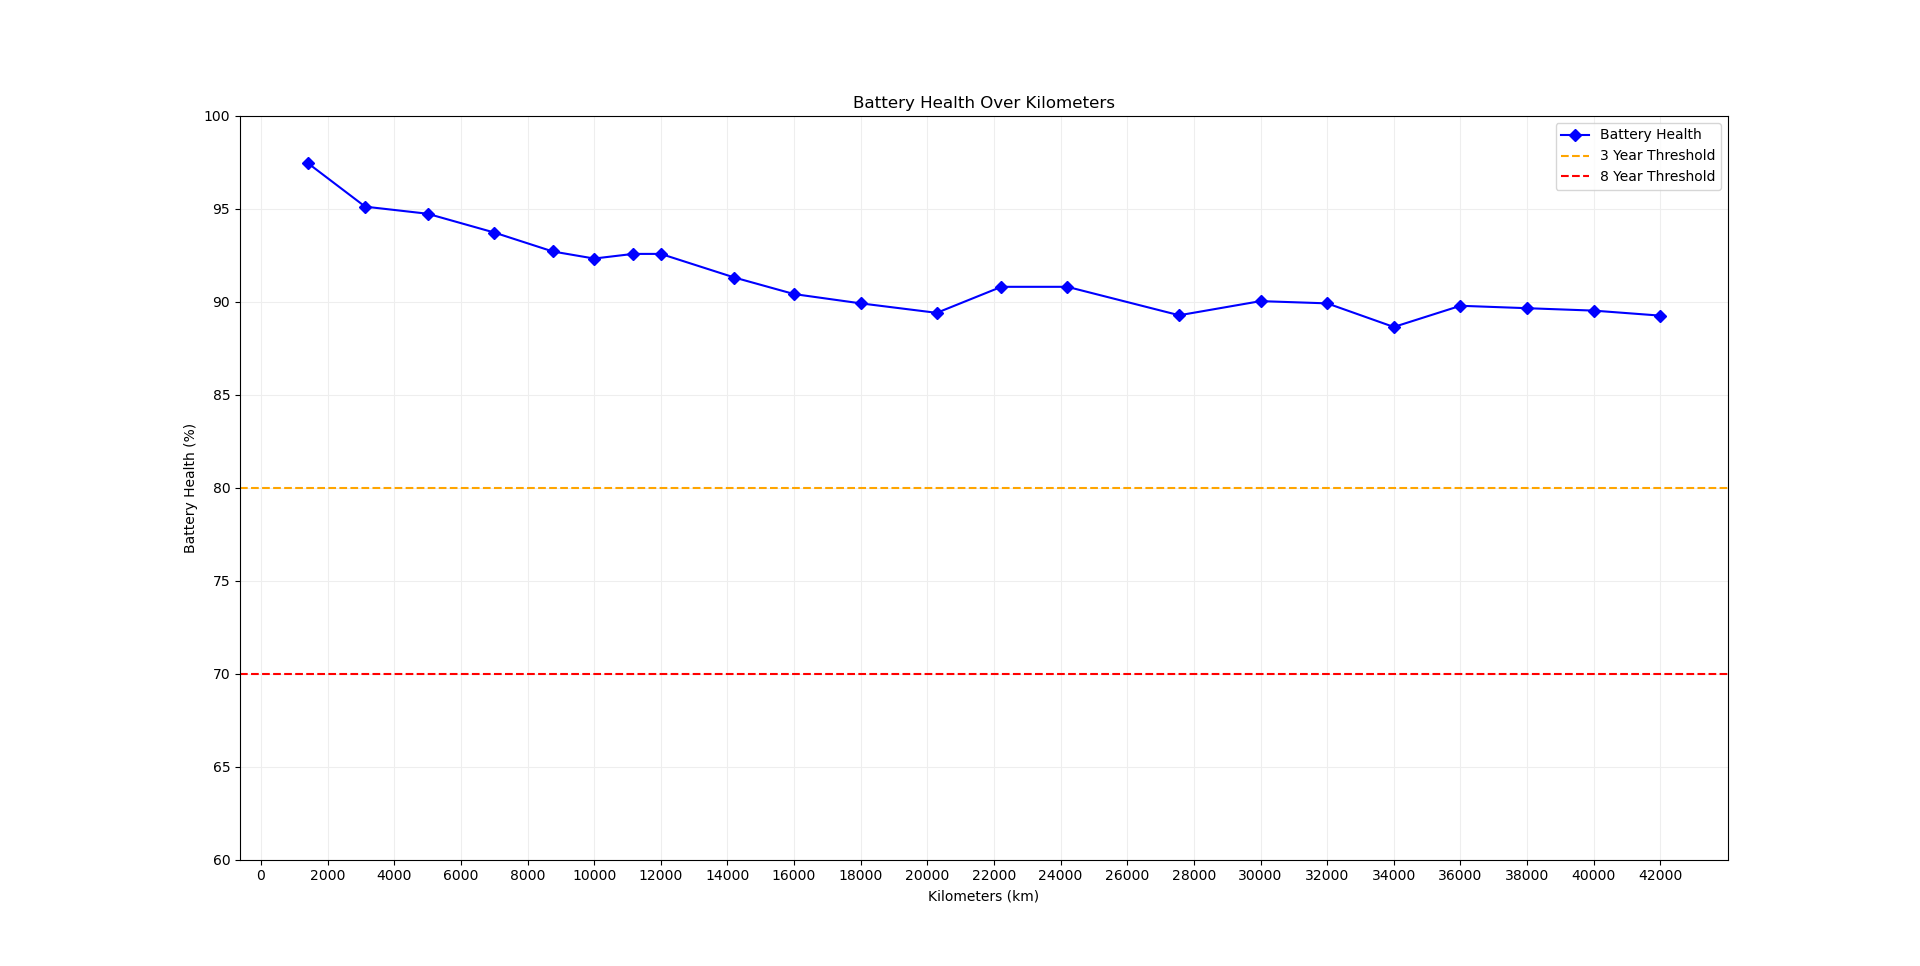
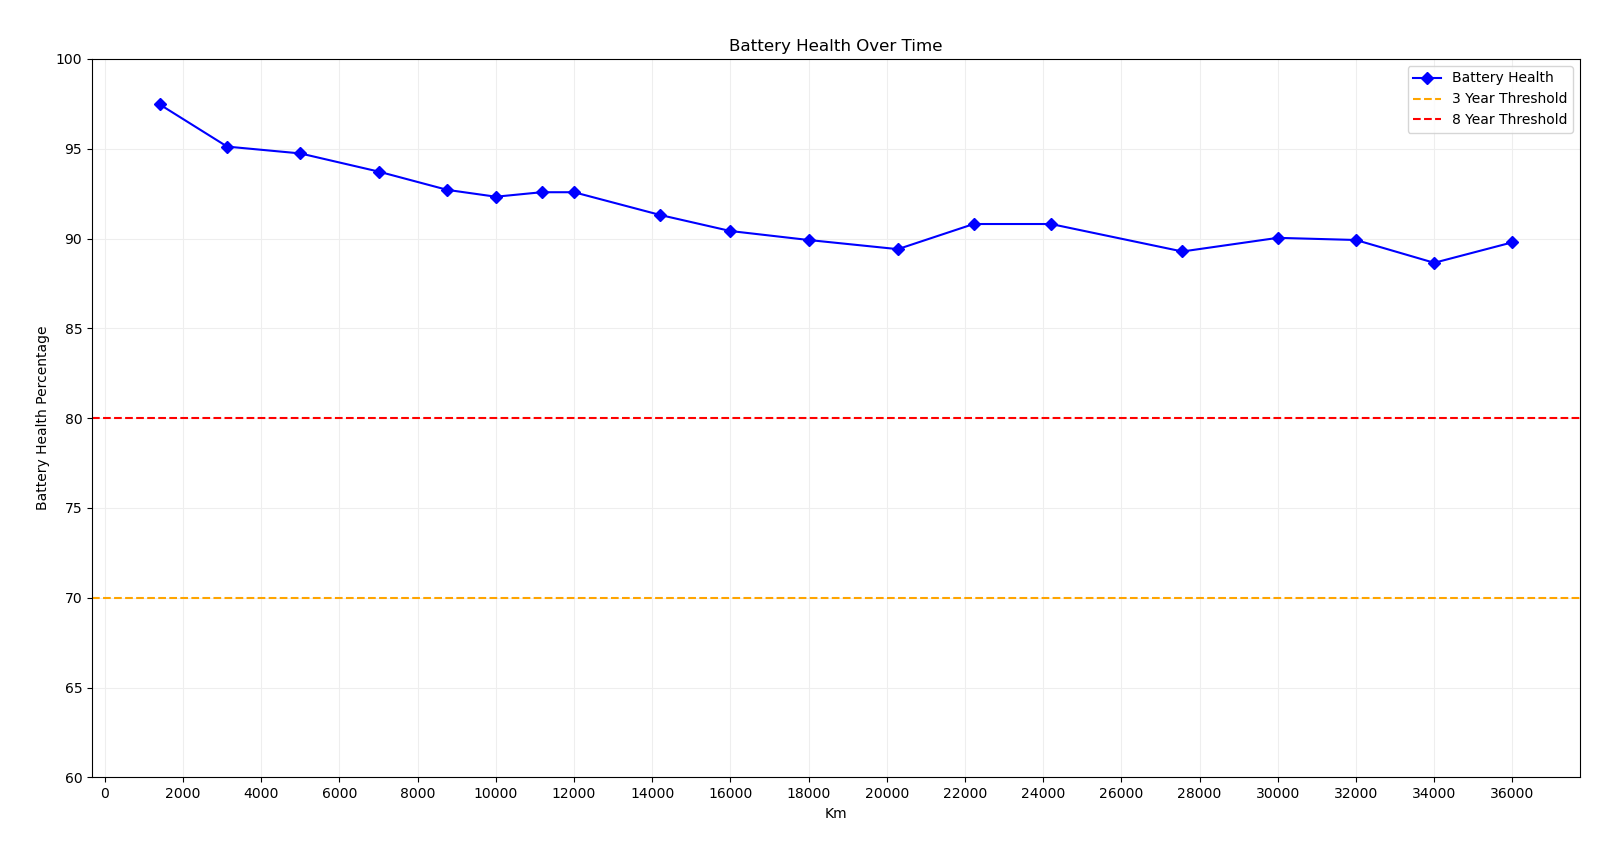
Revert "local updates"
This reverts commit cb324f4d2bfd0a61c7bad6cb19800b12ec9762f8.

diff --git a/battery_health.py b/battery_health.py
@@ -2,15 +2,15 @@ import os
 import json
 import matplotlib.pyplot as plt
 import pandas as pd
+from loguru import logger
+import numpy as np
 from dotenv import load_dotenv
-import numpy as np
-import numpy as np
 
-# Load environment variables
+# Constants
+
 # Load environment variables
 load_dotenv()
 
-# Constants
 # Constants
 CHART_LIMITS = json.loads(os.getenv('CHART_LIMITS'))
 STEP = int(os.getenv('STEP'))
@@ -72,8 +72,6 @@ def plot_battery_health_over_time(df, chart_limits, step, threshold_levels, thre
     # Plotting 'km' vs. 'health'
     plt.plot(df['km'], df['health'], color='blue', linestyle='solid', marker='D', label="Battery Health")
 
-    # Setting chart limits for both axes
-    plt.ylim(chart_limits[0], chart_limits[1])
     # Setting chart limits for both axes
     plt.ylim(chart_limits[0], chart_limits[1])
 
